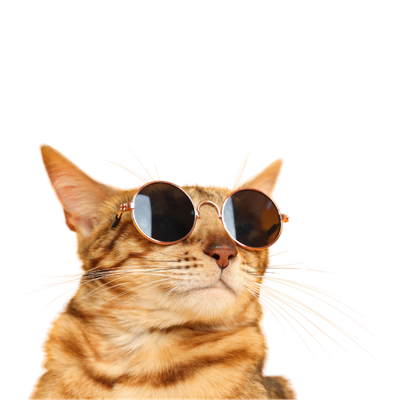
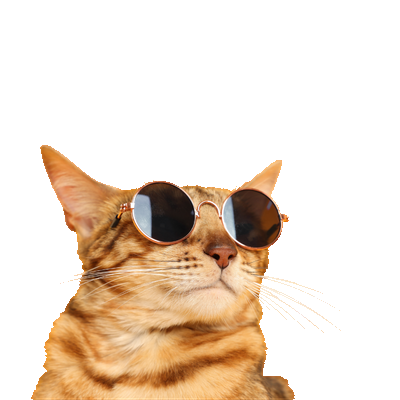
Fix the cat box issue

diff --git a/entrypoints/content/overlay/real-cat-cameo.ts b/entrypoints/content/overlay/real-cat-cameo.ts
@@ -139,7 +139,6 @@ export class RealCatCameoController {
       width: `${size}px`,
       height: `${size}px`,
       borderRadius: '14px',
-      boxShadow: '0 8px 24px rgba(0, 0, 0, 0.3)',
       objectFit: 'cover',
       zIndex: '2147483646',
       opacity: '0',

diff --git a/CHANGELOG.md b/CHANGELOG.md
@@ -7,6 +7,7 @@ Updates for people who use Tabby. Newest first.
 - **Petting** has a dedicated reaction.
 - Shows her actually talking.
 - Random real cat photo cameo.
+- Fix a light halo around real cat cameo photos.
 
 ## 2.4.5
 
